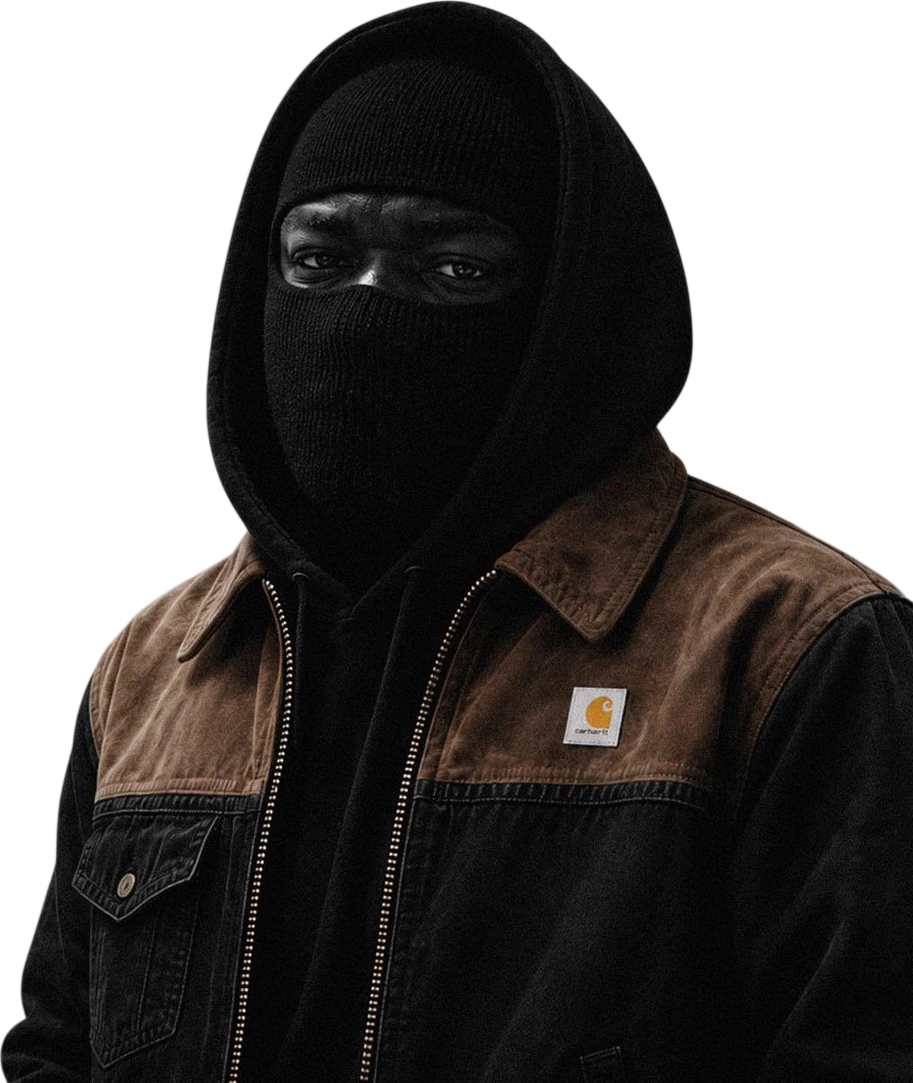
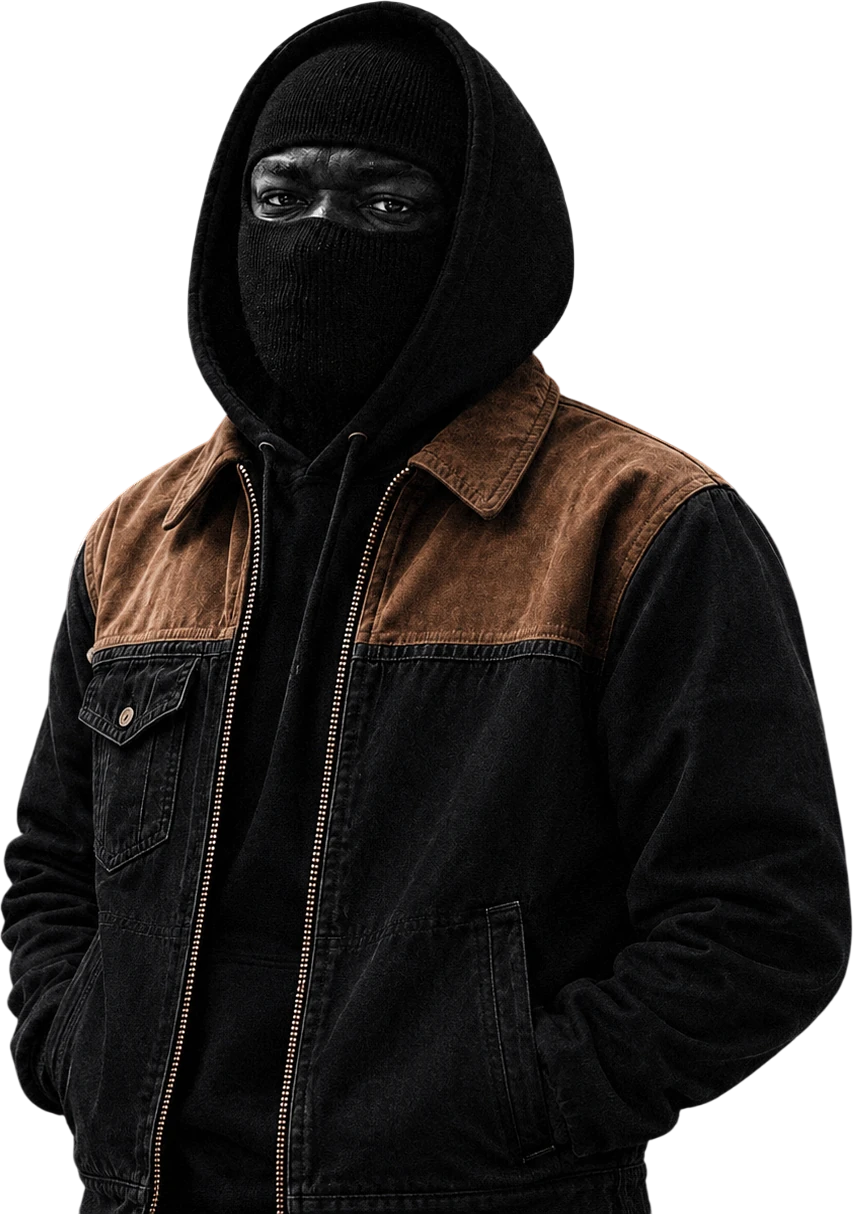
Bemshima poster: new masked portrait
Claude-Session: https://claude.ai/code/session_01DwTnJ3uQYZp3UhNFhAriPH

diff --git a/bemshima/index.html b/bemshima/index.html
@@ -46,7 +46,7 @@
         <button type="button" data-np-next aria-label="Next song"><svg width="30" height="20" viewBox="0 0 30 20" fill="currentColor" aria-hidden="true"><path d="M2 2v16l12-8zM16 2v16l12-8z"/></svg></button>
       </div>
     </div>
-    <img class="poster__me" src="/assets/img/bemshima-mask.webp" alt="Bemshima in a black balaclava, hood up, wearing a brown and black work jacket" width="913" height="1083" fetchpriority="high">
+    <img class="poster__me" src="/assets/img/bemshima-mask.webp?v=2" alt="Bemshima in a black balaclava, hood up, hands in the pockets of a brown and black work jacket" width="853" height="1214" fetchpriority="high">
     <canvas class="poster__dots" data-dots="BEMSHIMA" aria-hidden="true"></canvas>
     <h1 class="sr-only">Bemshima</h1>
   </header>

diff --git a/assets/css/style.css b/assets/css/style.css
@@ -903,3 +903,5 @@ body.build-open{overflow:hidden}
   .tl__ext{font-size:12px}
 }
 @media (prefers-reduced-motion:reduce){.poster__glow{animation:none}}
+.poster__me{height:78%}
+@media (max-width:600px){.poster__me{height:68%}}
